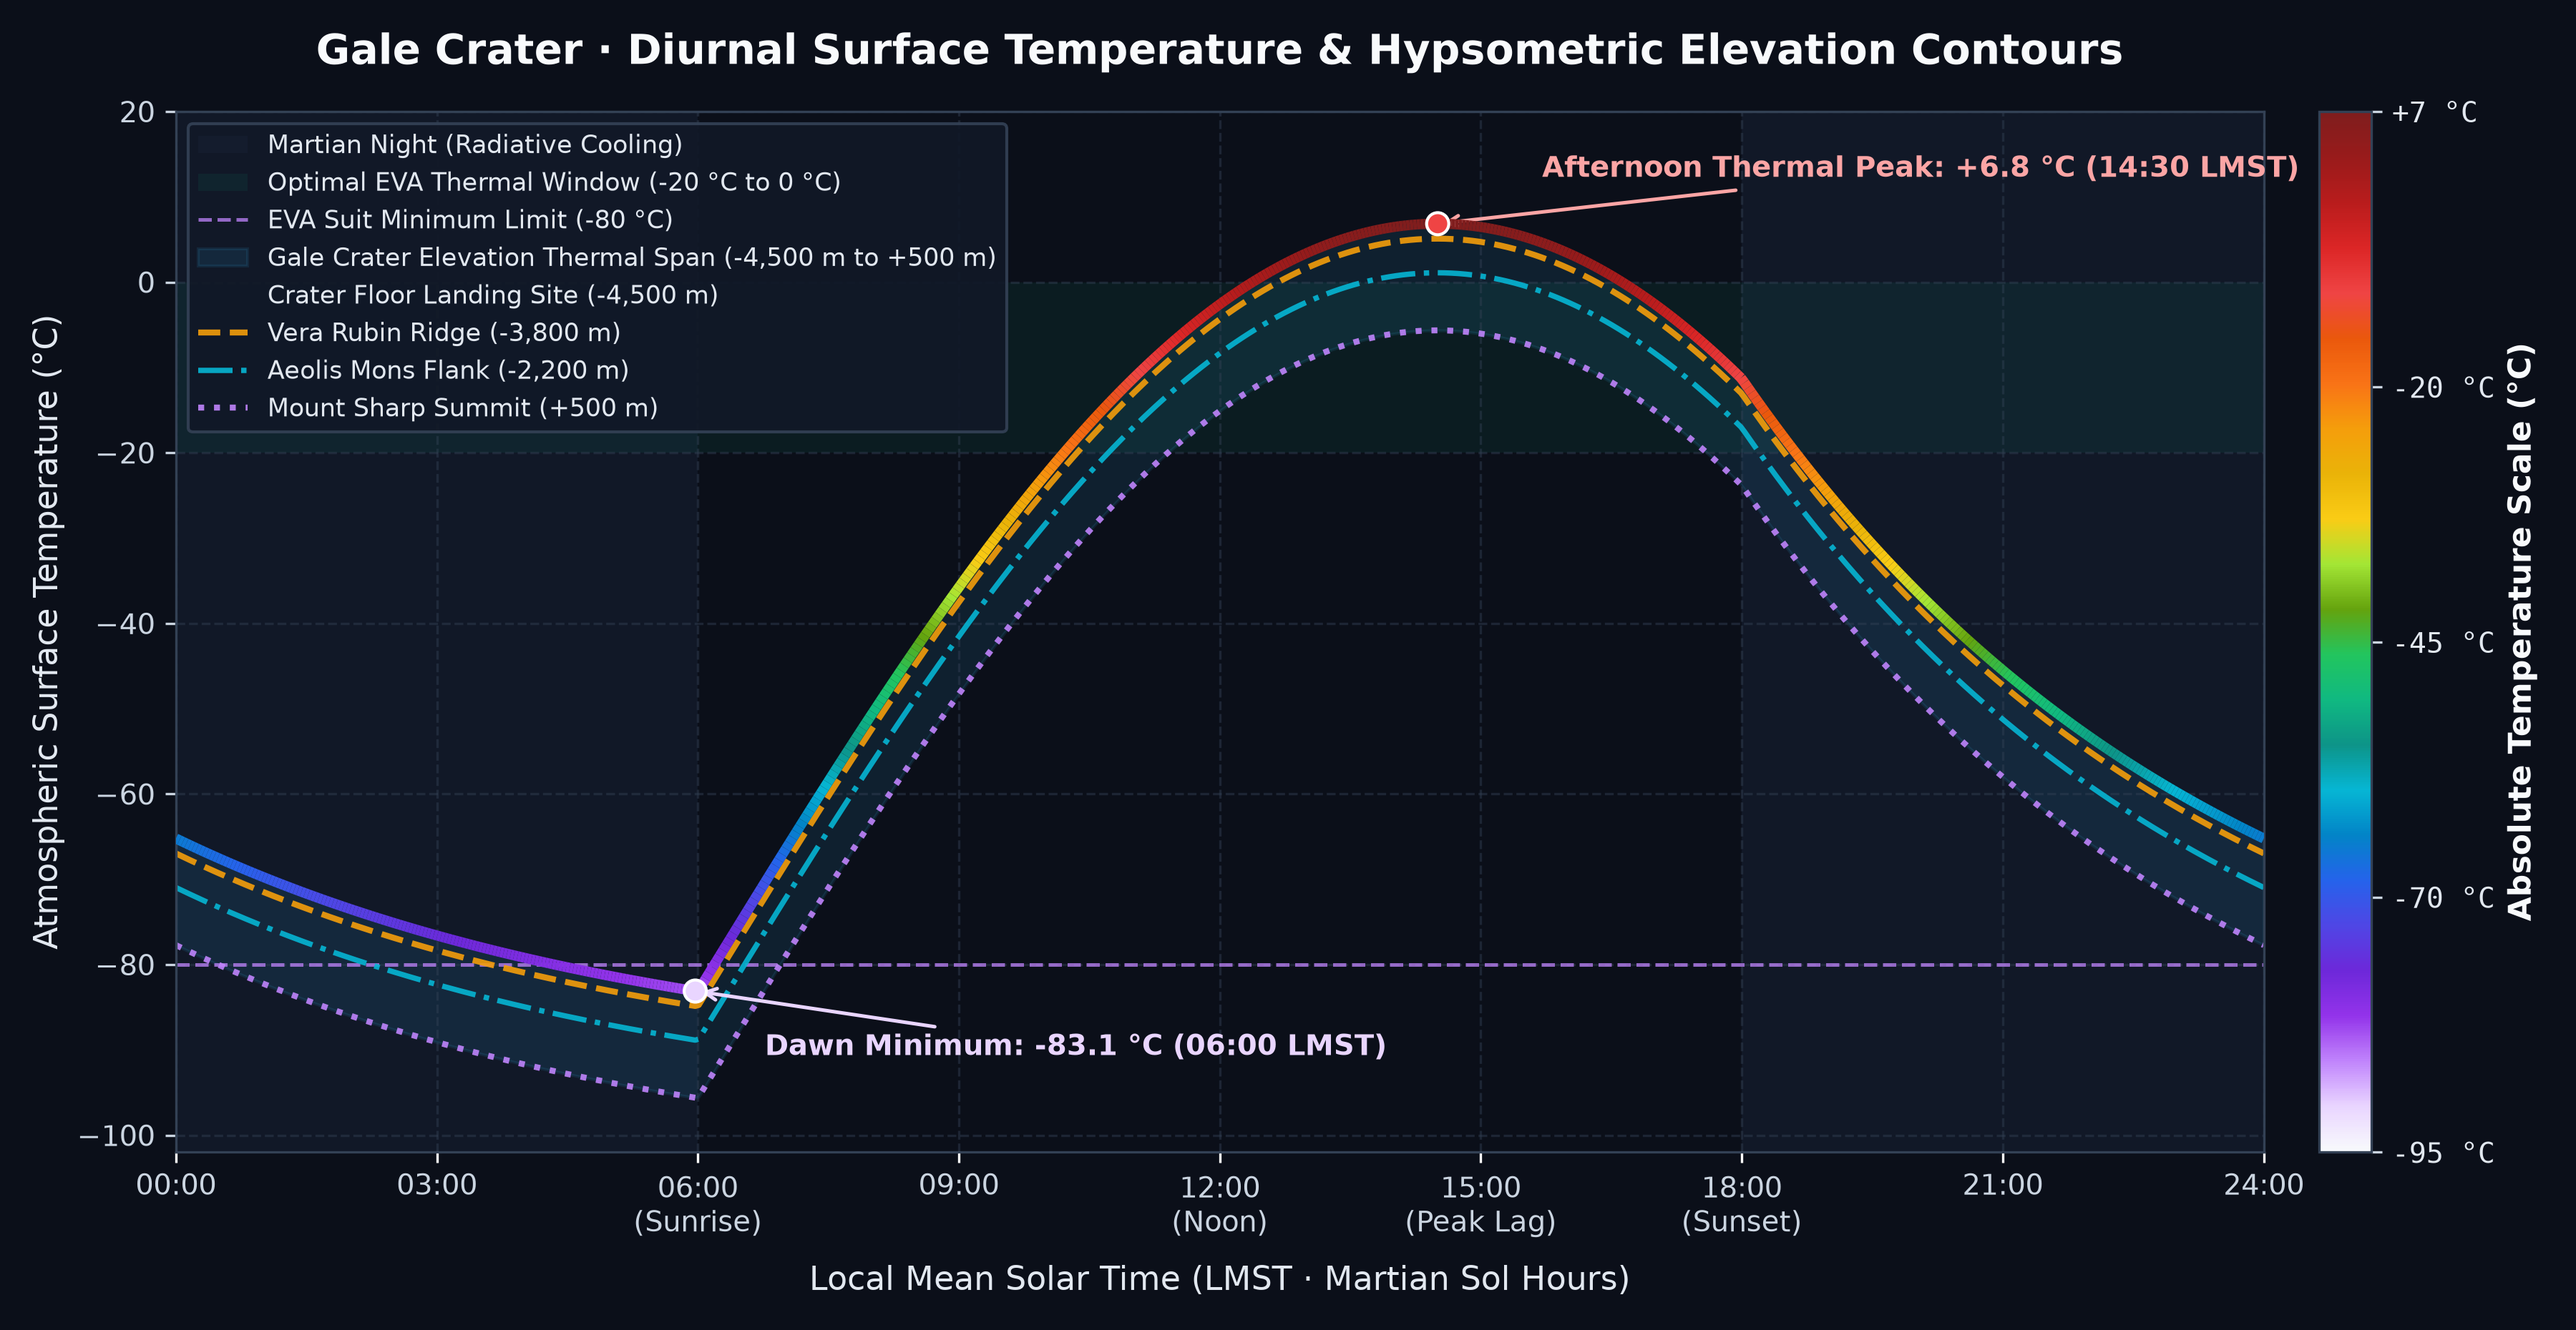
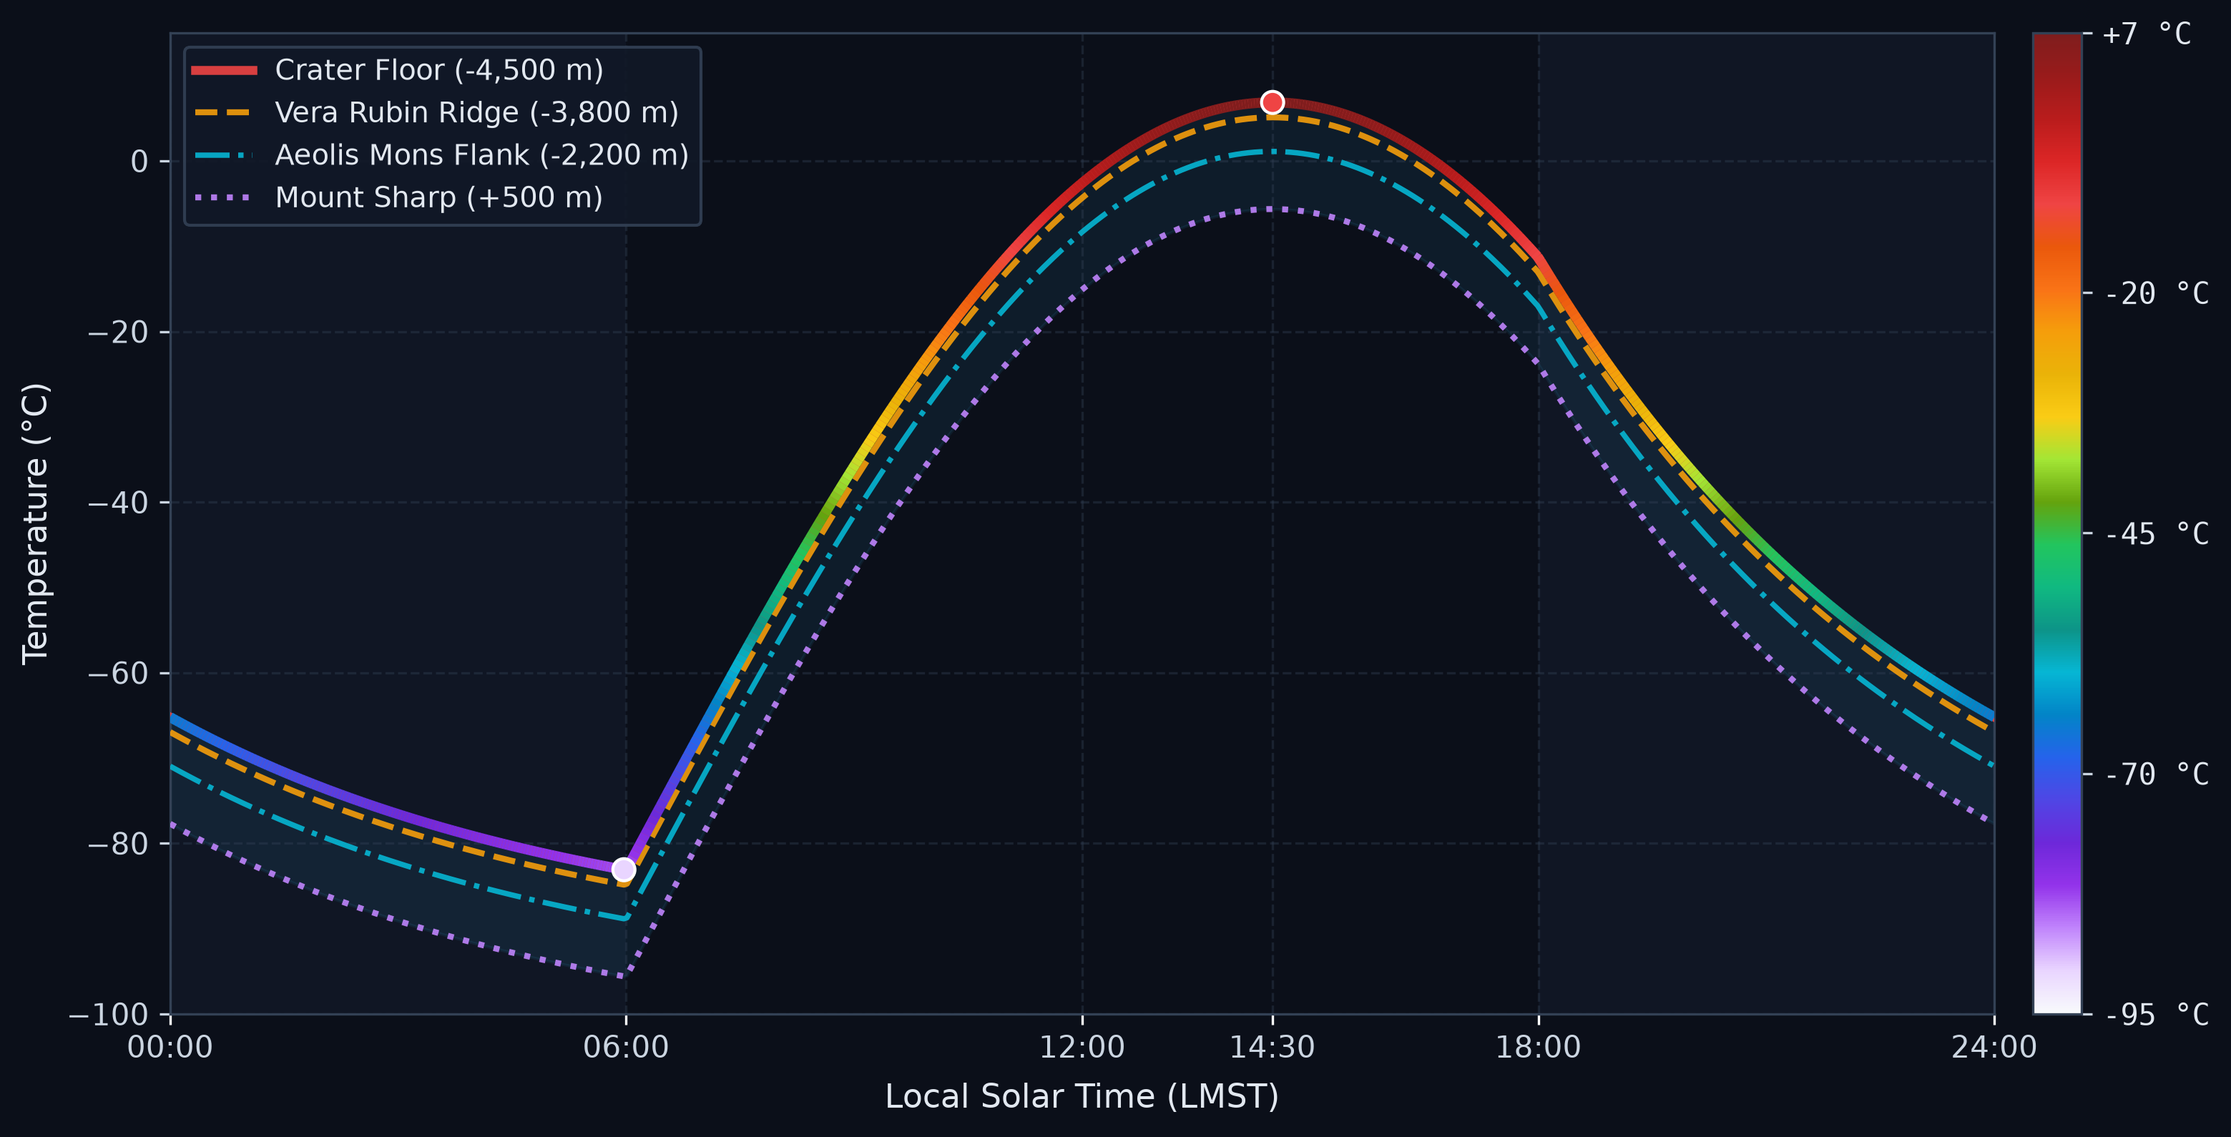
png generation for presentation

Changed region(s): [[0.0, 0.0, 0.9952, 0.9862], [0.6531, 0.7088, 0.6842, 0.7396]]

diff --git a/radiation_data/animations/plot_temp.py b/radiation_data/animations/plot_temp.py
@@ -66,38 +66,26 @@ hours = np.linspace(0, 24, 600)
 
 # Hypsometric contour levels across Gale Crater
 contour_profiles = [
-    ("Crater Floor Landing Site (-4,500 m)", -4500.0, "-", 3.0),
+    ("Crater Floor (-4,500 m)", -4500.0, "-", 3.0),
     ("Vera Rubin Ridge (-3,800 m)", -3800.0, "--", 2.0),
     ("Aeolis Mons Flank (-2,200 m)", -2200.0, "-.", 1.8),
-    ("Mount Sharp Summit (+500 m)", 500.0, ":", 2.0),
+    ("Mount Sharp (+500 m)", 500.0, ":", 2.0),
 ]
 
 plt.style.use("dark_background")
-fig, ax = plt.subplots(figsize=(12, 6.2), dpi=300)
+fig, ax = plt.subplots(figsize=(10.5, 5.4), dpi=300)
 fig.patch.set_facecolor("#0b0f19")
 ax.set_facecolor("#0b0f19")
 
-# Shade Martian night hours
-ax.axvspan(0, 6, color="#172033", alpha=0.55, lw=0)
-ax.axvspan(18, 24, color="#172033", alpha=0.55, lw=0, label="Martian Night (Radiative Cooling)")
-
-# Shade EVA Suit Thermal Limit (-80 °C) and Optimal Operating Band (-20 °C to 0 °C)
-ax.axhspan(-20, 0, color="#10b981", alpha=0.08, lw=0, label="Optimal EVA Thermal Window (-20 °C to 0 °C)")
-ax.axhline(-80.0, color="#c084fc", linestyle="--", lw=1.2, alpha=0.75, label="EVA Suit Minimum Limit (-80 °C)")
+# Shade Martian night hours subtly (no legend clutter)
+ax.axvspan(0, 6, color="#172033", alpha=0.45, lw=0)
+ax.axvspan(18, 24, color="#172033", alpha=0.45, lw=0)
 
 # Plot multicolor temperature gradient curve for the Crater Floor (-4,500 m)
 _, temp_floor = get_mars_temperature_py(hours, elevation_m=-4500.0)
 _, temp_summit = get_mars_temperature_py(hours, elevation_m=500.0)
 
-# Soft gradient band between Crater Floor and Mount Sharp Summit
-ax.fill_between(
-    hours,
-    temp_summit,
-    temp_floor,
-    color="#38bdf8",
-    alpha=0.10,
-    label="Gale Crater Elevation Thermal Span (-4,500 m to +500 m)",
-)
+ax.fill_between(hours, temp_summit, temp_floor, color="#38bdf8", alpha=0.08)
 
 points = np.array([hours, temp_floor]).T.reshape(-1, 1, 2)
 segments = np.concatenate([points[:-1], points[1:]], axis=1)
@@ -109,69 +97,33 @@ ax.add_collection(lc)
 contour_colors = ["#ef4444", "#f59e0b", "#06b6d4", "#c084fc"]
 for (label, elev_m, ls, lw), col in zip(contour_profiles, contour_colors):
     _, t_c = get_mars_temperature_py(hours, elevation_m=elev_m)
-    ax.plot(hours, t_c, linestyle=ls, linewidth=lw if elev_m != -4500.0 else 0.0, color=col, alpha=0.9, label=label)
+    ax.plot(hours, t_c, linestyle=ls, linewidth=lw, color=col, alpha=0.9, label=label, zorder=3)
 
-# Annotate diurnal extrema on the Crater Floor curve
+# Mark min & max points cleanly with dots only
 idx_min = int(np.argmin(temp_floor))
 idx_max = int(np.argmax(temp_floor))
 ax.scatter([hours[idx_min], hours[idx_max]], [temp_floor[idx_min], temp_floor[idx_max]],
            color=["#e9d5ff", "#ef4444"], edgecolors="white", s=55, zorder=6)
-ax.annotate(
-    f"Dawn Minimum: {temp_floor[idx_min]:.1f} °C (06:00 LMST)",
-    xy=(hours[idx_min], temp_floor[idx_min]),
-    xytext=(hours[idx_min] + 0.8, temp_floor[idx_min] - 7.5),
-    color="#e9d5ff",
-    fontsize=9.5,
-    fontweight="bold",
-    arrowprops=dict(arrowstyle="->", color="#e9d5ff", lw=1.2),
-)
-ax.annotate(
-    f"Afternoon Thermal Peak: +{temp_floor[idx_max]:.1f} °C (14:30 LMST)",
-    xy=(hours[idx_max], temp_floor[idx_max]),
-    xytext=(hours[idx_max] + 1.2, temp_floor[idx_max] + 5.5),
-    color="#fca5a5",
-    fontsize=9.5,
-    fontweight="bold",
-    arrowprops=dict(arrowstyle="->", color="#fca5a5", lw=1.2),
-)
 
-# Add graduated colorbar on the right matching the frontend (-95 °C to +7 °C)
+# Add graduated colorbar on the right (-95 °C to +7 °C)
 sm = plt.cm.ScalarMappable(cmap=cmap, norm=norm)
 sm.set_array([])
-cbar = fig.colorbar(sm, ax=ax, pad=0.025, fraction=0.03)
+cbar = fig.colorbar(sm, ax=ax, pad=0.02, fraction=0.028)
 cbar.set_ticks([-95, -70, -45, -20, 7])
 cbar.set_ticklabels(["-95 °C", "-70 °C", "-45 °C", "-20 °C", "+7 °C"])
-cbar.set_label("Absolute Temperature Scale (°C)", color="#f8fafc", fontsize=10.5, fontweight="bold")
-cbar.ax.yaxis.set_tick_params(color="#cbd5e1", labelsize=9.5)
+cbar.ax.yaxis.set_tick_params(color="#cbd5e1", labelsize=10)
 cbar.outline.set_edgecolor("#334155")
 plt.setp(cbar.ax.get_yticklabels(), color="#e2e8f0", family="monospace")
 
-# Styling and axes in English
-ax.set_title(
-    "Gale Crater · Diurnal Surface Temperature & Hypsometric Elevation Contours",
-    fontsize=14,
-    pad=16,
-    color="#f8fafc",
-    fontweight="bold",
-)
-ax.set_xlabel("Local Mean Solar Time (LMST · Martian Sol Hours)", fontsize=11, color="#e2e8f0", labelpad=8)
-ax.set_ylabel("Atmospheric Surface Temperature (°C)", fontsize=11, color="#e2e8f0")
+# Minimalist axes for presentation slides
+ax.set_xlabel("Local Solar Time (LMST)", fontsize=11, color="#e2e8f0", labelpad=6)
+ax.set_ylabel("Temperature (°C)", fontsize=11, color="#e2e8f0")
 ax.set_xlim(0, 24)
-ax.set_ylim(-102, 20)
-ax.set_xticks([0, 3, 6, 9, 12, 15, 18, 21, 24])
-ax.set_xticklabels([
-    "00:00",
-    "03:00",
-    "06:00\n(Sunrise)",
-    "09:00",
-    "12:00\n(Noon)",
-    "15:00\n(Peak Lag)",
-    "18:00\n(Sunset)",
-    "21:00",
-    "24:00",
-], color="#cbd5e1", fontsize=9.5)
-ax.tick_params(axis="y", colors="#cbd5e1", labelsize=9.5)
-ax.grid(True, color="#334155", linestyle="--", alpha=0.45)
+ax.set_ylim(-100, 15)
+ax.set_xticks([0, 6, 12, 14.5, 18, 24])
+ax.set_xticklabels(["00:00", "06:00", "12:00", "14:30", "18:00", "24:00"], color="#cbd5e1", fontsize=10)
+ax.tick_params(axis="y", colors="#cbd5e1", labelsize=10)
+ax.grid(True, color="#334155", linestyle="--", alpha=0.4)
 for spine in ax.spines.values():
     spine.set_edgecolor("#334155")
 
@@ -180,12 +132,11 @@ ax.legend(
     edgecolor="#334155",
     labelcolor="#e2e8f0",
     loc="upper left",
-    fontsize=8.3,
-    ncol=1,
-    framealpha=0.92,
+    fontsize=9.5,
+    framealpha=0.9,
 )
 
 plt.tight_layout()
 out_file = os.path.join(os.path.dirname(__file__) or ".", "mars_temperature_diurnal_curve.png")
-plt.savefig(out_file, facecolor=fig.get_facecolor(), edgecolor="none", dpi=300)
+plt.savefig(out_file, facecolor=fig.get_facecolor(), edgecolor="none", dpi=300, bbox_inches="tight")
 print(f"Saved temperature chart to '{out_file}'!")

diff --git a/radiation_data/animations/plot_svf_heatmap.py b/radiation_data/animations/plot_svf_heatmap.py
@@ -73,7 +73,7 @@ rgba[..., :3] = np.clip(rgba[..., :3] * blend_factor, 0.0, 1.0)
 rgba[invalid_mask] = [11 / 255.0, 15 / 255.0, 25 / 255.0, 1.0]
 
 plt.style.use("dark_background")
-fig, ax = plt.subplots(figsize=(12.5, 10.5), dpi=300)
+fig, ax = plt.subplots(figsize=(10.5, 9.2), dpi=300)
 fig.patch.set_facecolor("#0b0f19")
 ax.set_facecolor("#0b0f19")
 
@@ -82,48 +82,23 @@ ax.imshow(rgba, interpolation="bilinear")
 sm = plt.cm.ScalarMappable(cmap=cmap, norm=norm)
 sm.set_array([])
 
-cbar = fig.colorbar(sm, ax=ax, fraction=0.032, pad=0.035)
+cbar = fig.colorbar(sm, ax=ax, fraction=0.032, pad=0.025)
 ticks = [0.75, 0.90, 0.95, 0.98, 0.992, 1.00]
 cbar.set_ticks(ticks)
-cbar.set_ticklabels([
-    "0.75  (Deep Canyon Shelter · ~21 µSv/h)",
-    "0.90  (Steep Crater Wall · ~24 µSv/h)",
-    "0.95  (Scarp / Valley Floor · ~25.5 µSv/h)",
-    "0.98  (Moderate Relief · ~26.5 µSv/h)",
-    "0.992 (Low Undulation · ~27.0 µSv/h)",
-    "1.00  (Exposed Open Plain · ~27.5 µSv/h)",
-])
+cbar.set_ticklabels(["0.75", "0.90", "0.95", "0.98", "0.99", "1.00"])
 cbar.set_label(
-    "Topographic Radiation Exposure Factor  [0.15 + 0.85 × SVF_eff]",
+    "Exposure Factor (0.15 + 0.85·SVF)",
     color="#f8fafc",
-    fontsize=11.5,
-    fontweight="bold",
-    labelpad=12,
+    fontsize=11,
+    labelpad=8,
 )
-cbar.ax.yaxis.set_tick_params(color="#cbd5e1", labelsize=9.5)
+cbar.ax.yaxis.set_tick_params(color="#cbd5e1", labelsize=10)
 cbar.outline.set_edgecolor("#334155")
 plt.setp(cbar.ax.get_yticklabels(), color="#e2e8f0", family="monospace")
 
-ax.set_title(
-    "Gale Crater · Topographic Radiation Shielding & Sky View Factor (SVF)",
-    color="#f8fafc",
-    fontsize=14.5,
-    fontweight="bold",
-    pad=18,
-)
-ax.text(
-    0.5,
-    1.006,
-    "Non-Linear Hypsometric Scale · 32-Azimuth Horizon Ray-Casting over HiRISE DEM (Gale Crater / Aeolis Mons)",
-    transform=ax.transAxes,
-    ha="center",
-    va="bottom",
-    color="#94a3b8",
-    fontsize=10,
-)
 ax.axis("off")
 
 plt.tight_layout()
 out_file = os.path.join(os.path.dirname(__file__) or ".", "gale_radiation_shielding_heatmap.png")
-plt.savefig(out_file, facecolor=fig.get_facecolor(), edgecolor="none", dpi=300)
+plt.savefig(out_file, facecolor=fig.get_facecolor(), edgecolor="none", dpi=300, bbox_inches="tight")
 print(f"Saved heatmap to '{out_file}'!")
